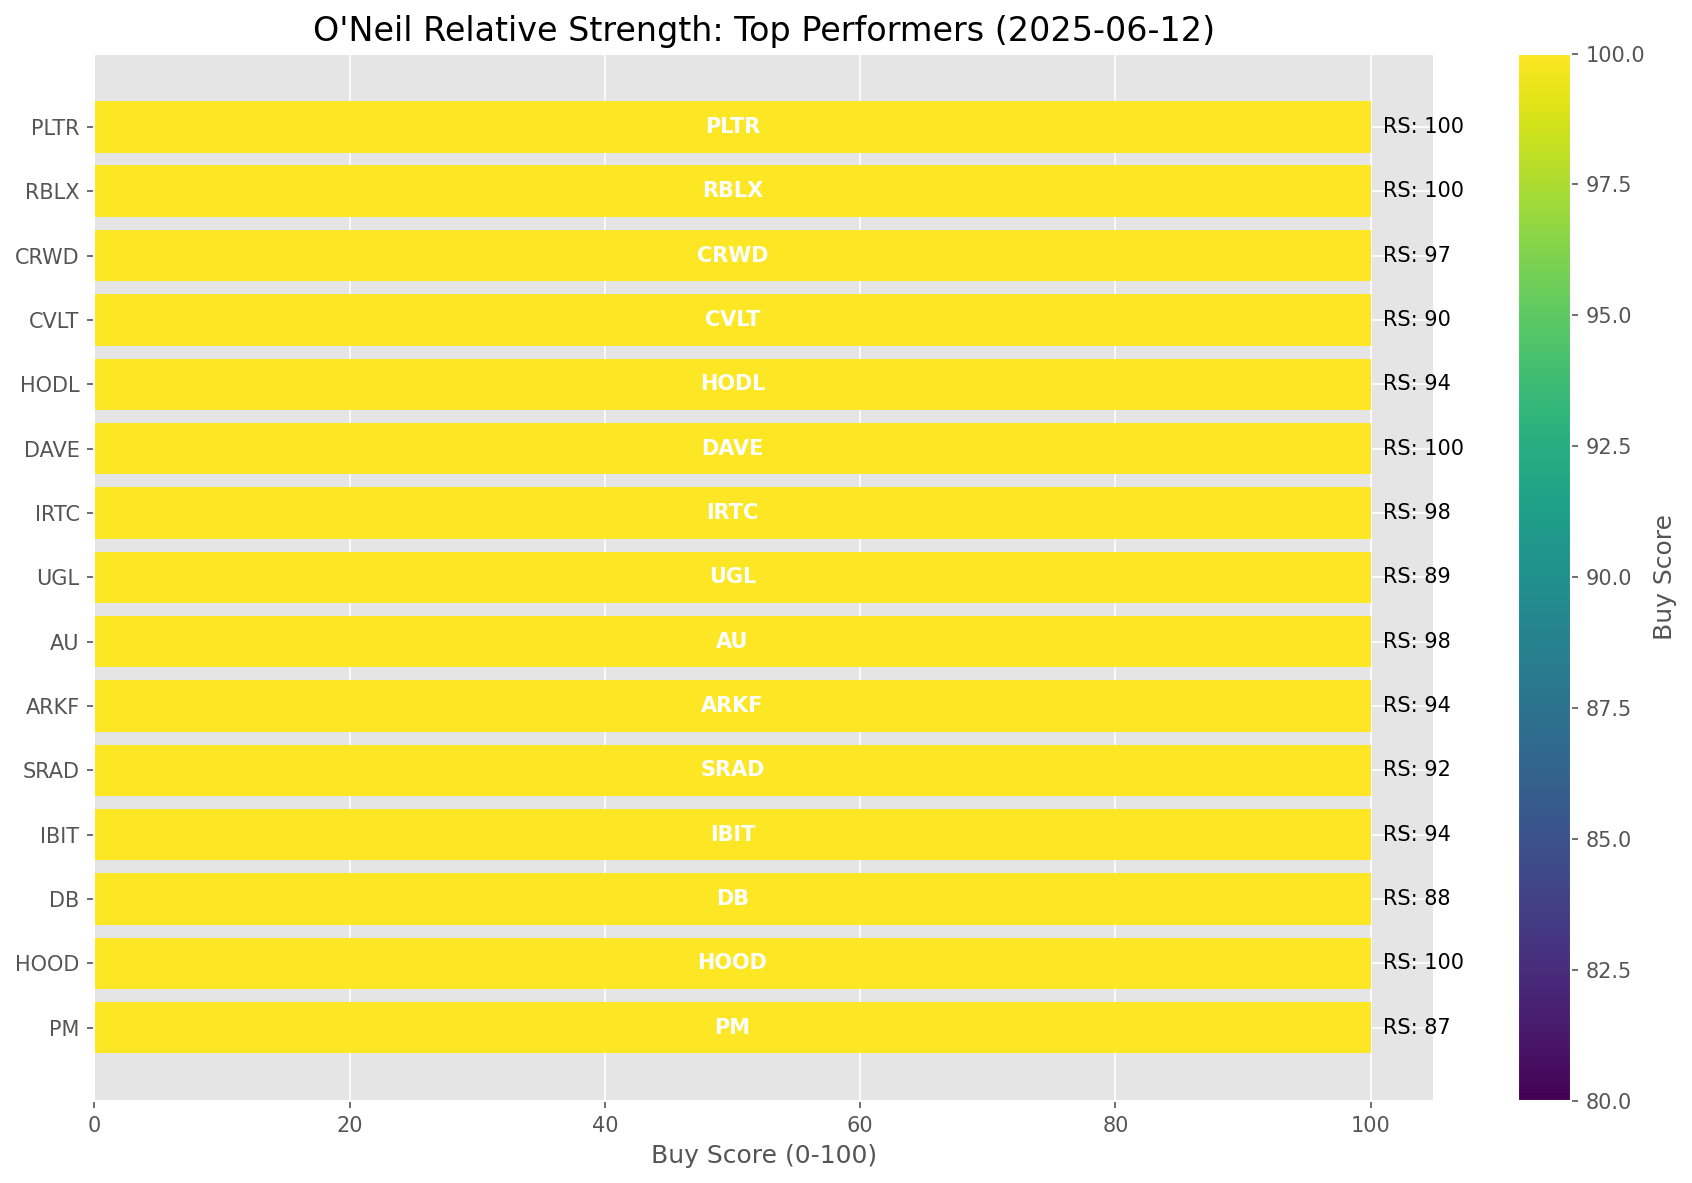
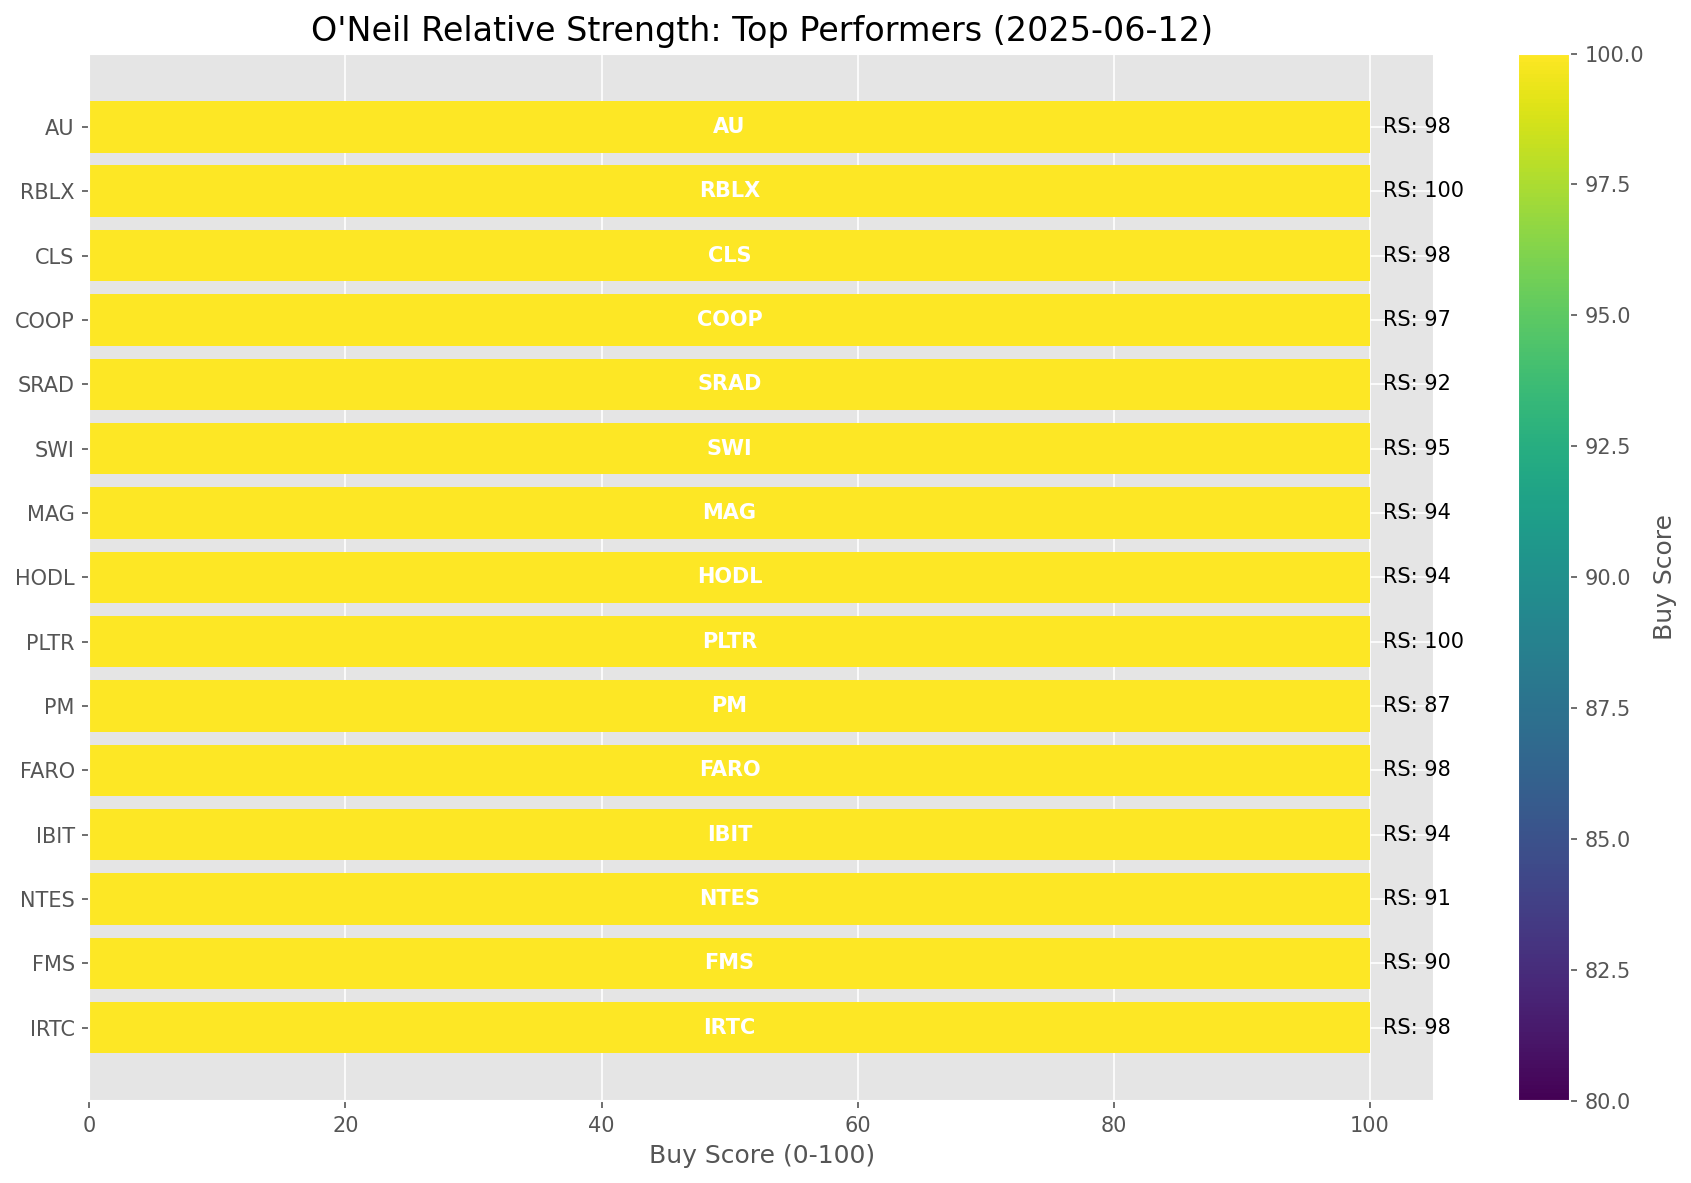
Add market report for 2025-06-12

diff --git a/oneil_relative_strength_report_2025-06-12.md b/oneil_relative_strength_report_2025-06-12.md
@@ -58,9 +58,9 @@ Based on William O'Neil's Relative Strength Methodology
 | [PAVE](https://www.tradingview.com/chart/?symbol=PAVE) | 88.5 | 77.0 | 14.12% | 10d ✓, 50d ✓, 200d ✓ | ↗ | Infrastructure |
 | [GLD](https://www.tradingview.com/chart/?symbol=GLD) | 87.5 | 75.0 | 13.47% | 10d ✓, 50d ✓, 200d ✓ | ↗ | Gold |
 | [XLC](https://www.tradingview.com/chart/?symbol=XLC) | 82.5 | 65.0 | 9.27% | 10d ✓, 50d ✓, 200d ✓ | ↗ | Communications |
-| [XLF](https://www.tradingview.com/chart/?symbol=XLF) | 80.0 | 60.0 | 7.55% | 10d ✓, 50d ✓, 200d ✓ | ↗ | Financial |
-| [IYZ](https://www.tradingview.com/chart/?symbol=IYZ) | 80.0 | 60.0 | 7.55% | 10d ✓, 50d ✓, 200d ✓ | ↗ | Telecommunications |
 | [SLV](https://www.tradingview.com/chart/?symbol=SLV) | 80.0 | 60.0 | 7.55% | 10d ✓, 50d ✓, 200d ✓ | ↗ | Silver |
+| [IYZ](https://www.tradingview.com/chart/?symbol=IYZ) | 80.0 | 60.0 | 7.55% | 10d ✓, 50d ✓, 200d ✓ | ↗ | Telecommunications |
+| [XLF](https://www.tradingview.com/chart/?symbol=XLF) | 80.0 | 60.0 | 7.55% | 10d ✓, 50d ✓, 200d ✓ | ↗ | Financial |
 | [URA](https://www.tradingview.com/chart/?symbol=URA) | 79.0 | 98.0 | 53.17% | 10d ✓, 50d ✓, 200d ✓ | ↘ | Uranium |
 | [XLU](https://www.tradingview.com/chart/?symbol=XLU) | 77.5 | 55.0 | 5.86% | 10d ✓, 50d ✓, 200d ✓ | ↗ | Utilities |
 | [XLI](https://www.tradingview.com/chart/?symbol=XLI) | 76.1 | 72.0 | 11.71% | 10d ✗, 50d ✓, 200d ✓ | ↗ | Industrial |
@@ -110,54 +110,54 @@ The following 64 stocks show exceptional relative strength:
 
 | RS Rating | Buy Score | Current Price | Chart | Name | Ticker |
 |-----------|-----------|---------------|-------|------|--------|
-| 100 | 100 | $73.84 | [Chart](https://www.tradingview.com/chart/?symbol=HOOD) | Robinhood Markets, Inc. Class A Common Stock | HOOD |
-| 100 | 100 | $238.25 | [Chart](https://www.tradingview.com/chart/?symbol=DAVE) | Dave Inc. Class A Common Stock | DAVE |
-| 100 | 100 | $95.11 | [Chart](https://www.tradingview.com/chart/?symbol=RBLX) | Roblox Corporation | RBLX |
 | 100 | 100 | $135.19 | [Chart](https://www.tradingview.com/chart/?symbol=PLTR) | Palantir Technologies Inc. Class A Common Stock | PLTR |
+| 100 | 100 | $95.11 | [Chart](https://www.tradingview.com/chart/?symbol=RBLX) | Roblox Corporation | RBLX |
 | 100 | 100 | $158.44 | [Chart](https://www.tradingview.com/chart/?symbol=LEU) | Centrus Energy Corp. | LEU |
+| 100 | 100 | $73.84 | [Chart](https://www.tradingview.com/chart/?symbol=HOOD) | Robinhood Markets, Inc. Class A Common Stock | HOOD |
+| 100 | 100 | $222.12 | [Chart](https://www.tradingview.com/chart/?symbol=AGX) | Argan, Inc | AGX |
 | 100 | 100 | $140.10 | [Chart](https://www.tradingview.com/chart/?symbol=SEZL) | Sezzle Inc. Common Stock | SEZL |
 | 100 | 100 | $57.15 | [Chart](https://www.tradingview.com/chart/?symbol=HIMS) | Hims & Hers Health, Inc. | HIMS |
-| 100 | 100 | $222.12 | [Chart](https://www.tradingview.com/chart/?symbol=AGX) | Argan, Inc | AGX |
+| 100 | 100 | $238.25 | [Chart](https://www.tradingview.com/chart/?symbol=DAVE) | Dave Inc. Class A Common Stock | DAVE |
 | 99 | 100 | $487.67 | [Chart](https://www.tradingview.com/chart/?symbol=GEV) | GE Vernova Inc. | GEV |
-| 98 | 100 | $48.82 | [Chart](https://www.tradingview.com/chart/?symbol=AU) | AngloGold Ashanti plc | AU |
 | 98 | 100 | $145.48 | [Chart](https://www.tradingview.com/chart/?symbol=IRTC) | iRhythm Technologies, Inc | IRTC |
 | 98 | 100 | $42.56 | [Chart](https://www.tradingview.com/chart/?symbol=FARO) | Faro Technologies Inc | FARO |
 | 98 | 100 | $130.73 | [Chart](https://www.tradingview.com/chart/?symbol=CLS) | Celestica, Inc. | CLS |
-| 97 | 100 | $481.73 | [Chart](https://www.tradingview.com/chart/?symbol=CRWD) | CrowdStrike Holdings, Inc. Class A Common Stock | CRWD |
+| 98 | 100 | $48.82 | [Chart](https://www.tradingview.com/chart/?symbol=AU) | AngloGold Ashanti plc | AU |
 | 97 | 100 | $146.52 | [Chart](https://www.tradingview.com/chart/?symbol=COOP) | Mr. Cooper Group Inc. Common Stock | COOP |
+| 97 | 100 | $481.73 | [Chart](https://www.tradingview.com/chart/?symbol=CRWD) | CrowdStrike Holdings, Inc. Class A Common Stock | CRWD |
 | 97 | 100 | $20.42 | [Chart](https://www.tradingview.com/chart/?symbol=MIR) | Mirion Technologies, Inc. | MIR |
 | 96 | 100 | $41.24 | [Chart](https://www.tradingview.com/chart/?symbol=KTOS) | Kratos Defense & Security Solutions, Inc. | KTOS |
+| 96 | 100 | $274.99 | [Chart](https://www.tradingview.com/chart/?symbol=TLN) | Talen Energy Corporation Common Stock | TLN |
 | 96 | 100 | $250.64 | [Chart](https://www.tradingview.com/chart/?symbol=GWRE) | GUIDEWIRE SOFTWARE, INC. | GWRE |
 | 96 | 100 | $37.41 | [Chart](https://www.tradingview.com/chart/?symbol=AS) | Amer Sports, Inc. | AS |
-| 96 | 100 | $274.99 | [Chart](https://www.tradingview.com/chart/?symbol=TLN) | Talen Energy Corporation Common Stock | TLN |
 | 95 | 100 | $26.41 | [Chart](https://www.tradingview.com/chart/?symbol=OR) | OR Royalties Inc. | OR |
 | 94 | 100 | $60.70 | [Chart](https://www.tradingview.com/chart/?symbol=IBIT) | iShares Bitcoin Trust ETF | IBIT |
-| 94 | 100 | $44.19 | [Chart](https://www.tradingview.com/chart/?symbol=ARKF) | ARK Fintech Innovation ETF | ARKF |
 | 94 | 100 | $30.23 | [Chart](https://www.tradingview.com/chart/?symbol=HODL) | VanEck Bitcoin ETF | HODL |
 | 94 | 100 | $21.42 | [Chart](https://www.tradingview.com/chart/?symbol=MAG) | MAG Silver Corp. | MAG |
-| 93 | 100 | $506.99 | [Chart](https://www.tradingview.com/chart/?symbol=CASY) | Casey's General Stores Inc | CASY |
-| 93 | 100 | $176.29 | [Chart](https://www.tradingview.com/chart/?symbol=EAT) | Brinker International, Inc. | EAT |
-| 93 | 100 | $58.79 | [Chart](https://www.tradingview.com/chart/?symbol=CAKE) | Cheesecake Factory (The) | CAKE |
+| 94 | 100 | $44.19 | [Chart](https://www.tradingview.com/chart/?symbol=ARKF) | ARK Fintech Innovation ETF | ARKF |
 | 93 | 100 | $24.49 | [Chart](https://www.tradingview.com/chart/?symbol=TFPM) | Triple Flag Precious Metals Corp. | TFPM |
+| 93 | 100 | $58.79 | [Chart](https://www.tradingview.com/chart/?symbol=CAKE) | Cheesecake Factory (The) | CAKE |
+| 93 | 100 | $176.29 | [Chart](https://www.tradingview.com/chart/?symbol=EAT) | Brinker International, Inc. | EAT |
+| 93 | 100 | $506.99 | [Chart](https://www.tradingview.com/chart/?symbol=CASY) | Casey's General Stores Inc | CASY |
 | 92 | 100 | $25.33 | [Chart](https://www.tradingview.com/chart/?symbol=SRAD) | Sportradar Group AG Class A Ordinary Shares | SRAD |
 | 92 | 100 | $70.61 | [Chart](https://www.tradingview.com/chart/?symbol=GDXJ) | VanEck Junior Gold Miners ETF | GDXJ |
-| 91 | 100 | $160.52 | [Chart](https://www.tradingview.com/chart/?symbol=CAH) | Cardinal Health, Inc. | CAH |
 | 91 | 100 | $132.76 | [Chart](https://www.tradingview.com/chart/?symbol=NTES) | NetEase, inc. | NTES |
-| 90 | 100 | $186.09 | [Chart](https://www.tradingview.com/chart/?symbol=CVLT) | Commault Systems, Inc. | CVLT |
+| 91 | 100 | $160.52 | [Chart](https://www.tradingview.com/chart/?symbol=CAH) | Cardinal Health, Inc. | CAH |
 | 90 | 100 | $28.94 | [Chart](https://www.tradingview.com/chart/?symbol=FMS) | Fresenius Medical Care AG | FMS |
+| 90 | 100 | $186.09 | [Chart](https://www.tradingview.com/chart/?symbol=CVLT) | Commault Systems, Inc. | CVLT |
 | 90 | 100 | $58.13 | [Chart](https://www.tradingview.com/chart/?symbol=SHLD) | Global X Defense Tech ETF | SHLD |
 | 89 | 100 | $146.10 | [Chart](https://www.tradingview.com/chart/?symbol=UGL) | ProShares Ultra Gold | UGL |
+| 89 | 100 | $72.52 | [Chart](https://www.tradingview.com/chart/?symbol=CTVA) | Corteva, Inc. Common Stock | CTVA |
 | 89 | 100 | $90.41 | [Chart](https://www.tradingview.com/chart/?symbol=WPM) | Wheaton Precious Metals Corp. Common Stock | WPM |
 | 89 | 100 | $35.70 | [Chart](https://www.tradingview.com/chart/?symbol=AHR) | American Healthcare REIT, Inc. | AHR |
-| 89 | 100 | $72.52 | [Chart](https://www.tradingview.com/chart/?symbol=CTVA) | Corteva, Inc. Common Stock | CTVA |
 | 88 | 100 | $28.22 | [Chart](https://www.tradingview.com/chart/?symbol=DB) | Deutsche Bank Aktiengesellschaft | DB |
 | 87 | 100 | $184.10 | [Chart](https://www.tradingview.com/chart/?symbol=PM) | Philip Morris International Inc. | PM |
 | 89 | 99 | $53.53 | [Chart](https://www.tradingview.com/chart/?symbol=GDX) | VanEck Gold Miners ETF | GDX |
 | 86 | 99 | $281.81 | [Chart](https://www.tradingview.com/chart/?symbol=VRSN) | VeriSign Inc | VRSN |
 | 89 | 98 | $48.48 | [Chart](https://www.tradingview.com/chart/?symbol=SIL) | Global X Silver Miners ETF (NEW) | SIL |
 | 86 | 98 | $77.44 | [Chart](https://www.tradingview.com/chart/?symbol=EBAY) | eBay Inc | EBAY |
-| 85 | 97 | $29.20 | [Chart](https://www.tradingview.com/chart/?symbol=MP) | MP Materials Corp. | MP |
 | 85 | 97 | $28.60 | [Chart](https://www.tradingview.com/chart/?symbol=IMAX) | Imax Corp | IMAX |
+| 85 | 97 | $29.20 | [Chart](https://www.tradingview.com/chart/?symbol=MP) | MP Materials Corp. | MP |
 | 84 | 97 | $122.09 | [Chart](https://www.tradingview.com/chart/?symbol=AEM) | Agnico Eagle Mines Ltd. | AEM |
 | 87 | 96 | $25.24 | [Chart](https://www.tradingview.com/chart/?symbol=GFI) | Gold Fields Ltd ADR | GFI |
 | 87 | 96 | $28.98 | [Chart](https://www.tradingview.com/chart/?symbol=TGS) | Transportadora de Gas del Sur S.A. ADS | TGS |
@@ -180,61 +180,61 @@ The following 64 stocks show exceptional relative strength:
 
 ## **Sell Recommendations**
 
-The following 116 stocks show deteriorating relative strength:
+The following 115 stocks show deteriorating relative strength:
 
 | RS Rating | Sell Score | Current Price | Chart | Name | Ticker |
 |-----------|------------|---------------|-------|------|--------|
-| 1 | 100 | $30.76 | [Chart](https://www.tradingview.com/chart/?symbol=TECS) | Direxion Daily Technology Bear 3x Shares | TECS |
-| 1 | 100 | $12.69 | [Chart](https://www.tradingview.com/chart/?symbol=IART) | Integra LifeSciences Holdings | IART |
+| 1 | 100 | $11.96 | [Chart](https://www.tradingview.com/chart/?symbol=NRIX) | Nurix Therapeutics, Inc. Common stock | NRIX |
 | 1 | 100 | $10.35 | [Chart](https://www.tradingview.com/chart/?symbol=WNC) | Wabash National Corp. | WNC |
+| 1 | 100 | $30.76 | [Chart](https://www.tradingview.com/chart/?symbol=TECS) | Direxion Daily Technology Bear 3x Shares | TECS |
 | 1 | 100 | $14.27 | [Chart](https://www.tradingview.com/chart/?symbol=RXST) | RxSight, Inc. Common Stock | RXST |
 | 1 | 100 | $16.50 | [Chart](https://www.tradingview.com/chart/?symbol=NVDS) | Investment Managers Series Trust II Tradr 1.5X Short NVDA Daily ETF | NVDS |
-| 1 | 100 | $11.96 | [Chart](https://www.tradingview.com/chart/?symbol=NRIX) | Nurix Therapeutics, Inc. Common stock | NRIX |
-| 2 | 100 | $27.32 | [Chart](https://www.tradingview.com/chart/?symbol=QID) | ProShares UltraShort QQQ | QID |
+| 1 | 100 | $12.69 | [Chart](https://www.tradingview.com/chart/?symbol=IART) | Integra LifeSciences Holdings | IART |
 | 2 | 100 | $10.17 | [Chart](https://www.tradingview.com/chart/?symbol=SONO) | Sonos, Inc. Common Stock | SONO |
+| 2 | 100 | $27.32 | [Chart](https://www.tradingview.com/chart/?symbol=QID) | ProShares UltraShort QQQ | QID |
 | 2 | 100 | $48.00 | [Chart](https://www.tradingview.com/chart/?symbol=CCOI) | Cogent Communications Holdings, Inc. | CCOI |
 | 2 | 100 | $10.59 | [Chart](https://www.tradingview.com/chart/?symbol=PACS) | PACS Group, Inc. | PACS |
 | 3 | 100 | $14.05 | [Chart](https://www.tradingview.com/chart/?symbol=INMD) | InMode Ltd. Ordinary Shares | INMD |
-| 3 | 100 | $100.00 | [Chart](https://www.tradingview.com/chart/?symbol=ONTO) | Onto Innovation Inc. | ONTO |
 | 3 | 100 | $10.52 | [Chart](https://www.tradingview.com/chart/?symbol=MBC) | MasterBrand, Inc. | MBC |
-| 3 | 100 | $33.20 | [Chart](https://www.tradingview.com/chart/?symbol=CYTK) | Cytokinetics Inc. | CYTK |
-| 3 | 100 | $10.67 | [Chart](https://www.tradingview.com/chart/?symbol=SNDX) | Syndax Pharmaceuticals, Inc. | SNDX |
+| 3 | 100 | $100.00 | [Chart](https://www.tradingview.com/chart/?symbol=ONTO) | Onto Innovation Inc. | ONTO |
 | 3 | 100 | $25.62 | [Chart](https://www.tradingview.com/chart/?symbol=CRTO) | Criteo S.A. | CRTO |
-| 4 | 100 | $11.33 | [Chart](https://www.tradingview.com/chart/?symbol=HPK) | HighPeak Energy, Inc. Common Stock | HPK |
-| 4 | 100 | $140.33 | [Chart](https://www.tradingview.com/chart/?symbol=KRYS) | Krystal Biotech, Inc. Common Stock | KRYS |
-| 4 | 100 | $12.57 | [Chart](https://www.tradingview.com/chart/?symbol=ERII) | Energy Recovery, Inc. | ERII |
-| 4 | 100 | $21.26 | [Chart](https://www.tradingview.com/chart/?symbol=AMRK) | A-Mark Precious Metals, Inc. | AMRK |
-| 4 | 100 | $45.08 | [Chart](https://www.tradingview.com/chart/?symbol=SDOW) | ProShares UltraPro Short Dow 30 | SDOW |
+| 3 | 100 | $10.67 | [Chart](https://www.tradingview.com/chart/?symbol=SNDX) | Syndax Pharmaceuticals, Inc. | SNDX |
+| 3 | 100 | $33.20 | [Chart](https://www.tradingview.com/chart/?symbol=CYTK) | Cytokinetics Inc. | CYTK |
 | 4 | 100 | $52.92 | [Chart](https://www.tradingview.com/chart/?symbol=ASGN) | ASGN Incorporated | ASGN |
+| 4 | 100 | $45.08 | [Chart](https://www.tradingview.com/chart/?symbol=SDOW) | ProShares UltraPro Short Dow 30 | SDOW |
+| 4 | 100 | $21.26 | [Chart](https://www.tradingview.com/chart/?symbol=AMRK) | A-Mark Precious Metals, Inc. | AMRK |
+| 4 | 100 | $12.57 | [Chart](https://www.tradingview.com/chart/?symbol=ERII) | Energy Recovery, Inc. | ERII |
+| 4 | 100 | $140.33 | [Chart](https://www.tradingview.com/chart/?symbol=KRYS) | Krystal Biotech, Inc. Common Stock | KRYS |
+| 4 | 100 | $11.33 | [Chart](https://www.tradingview.com/chart/?symbol=HPK) | HighPeak Energy, Inc. Common Stock | HPK |
 | 4 | 100 | $21.76 | [Chart](https://www.tradingview.com/chart/?symbol=THS) | Treehouse Foods, Inc. | THS |
 | 5 | 100 | $32.42 | [Chart](https://www.tradingview.com/chart/?symbol=MBIN) | Merchants Bancorp Common Stock | MBIN |
-| 5 | 100 | $25.56 | [Chart](https://www.tradingview.com/chart/?symbol=JANX) | Janux Therapeutics, Inc. Common Stock | JANX |
-| 5 | 100 | $11.19 | [Chart](https://www.tradingview.com/chart/?symbol=PUBM) | PubMatic, Inc. Class A Common Stock | PUBM |
-| 5 | 100 | $45.08 | [Chart](https://www.tradingview.com/chart/?symbol=TWM) | ProShares UltraShort Russell2000 | TWM |
 | 5 | 100 | $54.71 | [Chart](https://www.tradingview.com/chart/?symbol=CCS) | CENTURY COMMUNITIES, INC. | CCS |
+| 5 | 100 | $11.19 | [Chart](https://www.tradingview.com/chart/?symbol=PUBM) | PubMatic, Inc. Class A Common Stock | PUBM |
+| 5 | 100 | $25.56 | [Chart](https://www.tradingview.com/chart/?symbol=JANX) | Janux Therapeutics, Inc. Common Stock | JANX |
+| 5 | 100 | $45.08 | [Chart](https://www.tradingview.com/chart/?symbol=TWM) | ProShares UltraShort Russell2000 | TWM |
 | 5 | 100 | $45.44 | [Chart](https://www.tradingview.com/chart/?symbol=LINE) | Lineage, Inc. Common Stock | LINE |
 | 6 | 100 | $17.25 | [Chart](https://www.tradingview.com/chart/?symbol=CODI) | Compass Diversified | CODI |
-| 6 | 100 | $52.71 | [Chart](https://www.tradingview.com/chart/?symbol=SLVM) | Sylvamo Corporation | SLVM |
 | 6 | 100 | $110.30 | [Chart](https://www.tradingview.com/chart/?symbol=AMR) | Alpha Metallurgical Resources, Inc. | AMR |
-| 7 | 100 | $39.72 | [Chart](https://www.tradingview.com/chart/?symbol=APOG) | Apogee Enterprises Inc | APOG |
+| 6 | 100 | $52.71 | [Chart](https://www.tradingview.com/chart/?symbol=SLVM) | Sylvamo Corporation | SLVM |
 | 7 | 100 | $10.50 | [Chart](https://www.tradingview.com/chart/?symbol=SCS) | Steelcase, Inc. | SCS |
+| 7 | 100 | $39.72 | [Chart](https://www.tradingview.com/chart/?symbol=APOG) | Apogee Enterprises Inc | APOG |
 | 8 | 100 | $103.43 | [Chart](https://www.tradingview.com/chart/?symbol=PDD) | PDD Holdings Inc. American Depositary Shares | PDD |
 | 8 | 100 | $38.42 | [Chart](https://www.tradingview.com/chart/?symbol=TMF) | Direxion Daily 20+ Year Treasury Bull 3X Shares (based on the NYSE 20 Year Plus Treasury Bond Index; symbol AXTWEN) | TMF |
+| 8 | 100 | $93.26 | [Chart](https://www.tradingview.com/chart/?symbol=ZBH) | Zimmer Biomet Holdings, Inc. | ZBH |
 | 8 | 100 | $12.42 | [Chart](https://www.tradingview.com/chart/?symbol=WSR) | Whitestone REIT | WSR |
 | 8 | 100 | $10.02 | [Chart](https://www.tradingview.com/chart/?symbol=LBTYA) | Liberty Global Ltd. Class A Common Shares | LBTYA |
-| 8 | 100 | $93.26 | [Chart](https://www.tradingview.com/chart/?symbol=ZBH) | Zimmer Biomet Holdings, Inc. | ZBH |
-| 9 | 100 | $21.72 | [Chart](https://www.tradingview.com/chart/?symbol=KIDS) | OrthoPediatrics Corp. Common Stock | KIDS |
 | 9 | 100 | $20.79 | [Chart](https://www.tradingview.com/chart/?symbol=SPT) | Sprout Social, Inc Class A Common Stock | SPT |
+| 9 | 100 | $21.72 | [Chart](https://www.tradingview.com/chart/?symbol=KIDS) | OrthoPediatrics Corp. Common Stock | KIDS |
 | 10 | 100 | $23.73 | [Chart](https://www.tradingview.com/chart/?symbol=RPD) | Rapid7, Inc. Common Stock | RPD |
-| 10 | 100 | $122.10 | [Chart](https://www.tradingview.com/chart/?symbol=TFX) | Teleflex Incorporated | TFX |
 | 10 | 100 | $11.29 | [Chart](https://www.tradingview.com/chart/?symbol=OEC) | Orion S.A. | OEC |
-| 11 | 100 | $10.14 | [Chart](https://www.tradingview.com/chart/?symbol=LBTYK) | Liberty Global Ltd. Class C Common Shares | LBTYK |
+| 10 | 100 | $122.10 | [Chart](https://www.tradingview.com/chart/?symbol=TFX) | Teleflex Incorporated | TFX |
 | 11 | 100 | $31.76 | [Chart](https://www.tradingview.com/chart/?symbol=FUN) | Six Flags Entertainment Corporation | FUN |
+| 11 | 100 | $10.14 | [Chart](https://www.tradingview.com/chart/?symbol=LBTYK) | Liberty Global Ltd. Class C Common Shares | LBTYK |
 | 13 | 100 | $54.74 | [Chart](https://www.tradingview.com/chart/?symbol=GIS) | General Mills, Inc. | GIS |
 | 13 | 100 | $88.04 | [Chart](https://www.tradingview.com/chart/?symbol=BCC) | Boise Cascade Company | BCC |
 | 2 | 99 | $12.55 | [Chart](https://www.tradingview.com/chart/?symbol=TZA) | Direxion Daily Small Cap Bear 3x Shares | TZA |
-| 7 | 99 | $33.63 | [Chart](https://www.tradingview.com/chart/?symbol=TWST) | Twist Bioscience Corporation Common Stock | TWST |
 | 7 | 99 | $17.65 | [Chart](https://www.tradingview.com/chart/?symbol=AMTB) | Amerant Bancorp Inc. | AMTB |
+| 7 | 99 | $33.63 | [Chart](https://www.tradingview.com/chart/?symbol=TWST) | Twist Bioscience Corporation Common Stock | TWST |
 | 8 | 99 | $10.95 | [Chart](https://www.tradingview.com/chart/?symbol=NEWT) | NewtekOne, Inc. Common Stock | NEWT |
 | 9 | 99 | $23.86 | [Chart](https://www.tradingview.com/chart/?symbol=RYN) | Rayonier Inc. | RYN |
 | 13 | 99 | $15.20 | [Chart](https://www.tradingview.com/chart/?symbol=SEM) | SELECT MEDICAL HOLDINGS CORP | SEM |
@@ -268,8 +268,8 @@ The following 116 stocks show deteriorating relative strength:
 | 11 | 91 | $15.51 | [Chart](https://www.tradingview.com/chart/?symbol=QNST) | QuinStreet, Inc. | QNST |
 | 14 | 91 | $64.29 | [Chart](https://www.tradingview.com/chart/?symbol=STC) | Stewart Information Services Corporation | STC |
 | 17 | 91 | $17.70 | [Chart](https://www.tradingview.com/chart/?symbol=JPMpM) | JPMorgan Chase & Co. Depositary Shares, each representing a 1/400th interest in a share of 4.20% Non-Cumulative Preferred Stock, Series MM | JPMpM |
-| 15 | 90 | $29.94 | [Chart](https://www.tradingview.com/chart/?symbol=OMCL) | Omnicell Inc | OMCL |
 | 15 | 90 | $12.73 | [Chart](https://www.tradingview.com/chart/?symbol=ZETA) | Zeta Global Holdings Corp. | ZETA |
+| 15 | 90 | $29.94 | [Chart](https://www.tradingview.com/chart/?symbol=OMCL) | Omnicell Inc | OMCL |
 | 21 | 90 | $15.86 | [Chart](https://www.tradingview.com/chart/?symbol=BBN) | BlackRock Taxable Municipal Bond Trust | BBN |
 | 13 | 89 | $17.78 | [Chart](https://www.tradingview.com/chart/?symbol=ZTO) | ZTO Express (Cayman) Inc. American Depositary Shares, each representing one Class A ordinary share | ZTO |
 | 15 | 89 | $10.37 | [Chart](https://www.tradingview.com/chart/?symbol=NMZ) | Nuveen Municipal High Income Opportunity Fund | NMZ |
@@ -279,12 +279,11 @@ The following 116 stocks show deteriorating relative strength:
 | 18 | 88 | $74.15 | [Chart](https://www.tradingview.com/chart/?symbol=AAON) | Aaon Inc | AAON |
 | 21 | 88 | $17.05 | [Chart](https://www.tradingview.com/chart/?symbol=UMH) | UMH Properties, Inc. | UMH |
 | 14 | 87 | $10.62 | [Chart](https://www.tradingview.com/chart/?symbol=LOCO) | El Pollo Loco Holdings, Inc. | LOCO |
-| 17 | 87 | $54.97 | [Chart](https://www.tradingview.com/chart/?symbol=CNMD) | CONMED Corporation | CNMD |
 | 21 | 87 | $87.17 | [Chart](https://www.tradingview.com/chart/?symbol=TLT) | iShares 20+ Year Treasury Bond ETF | TLT |
 | 27 | 87 | $25.51 | [Chart](https://www.tradingview.com/chart/?symbol=WS) | Worthington Steel, Inc. | WS |
 | 18 | 86 | $39.04 | [Chart](https://www.tradingview.com/chart/?symbol=LKQ) | LKQ Corporation | LKQ |
-| 22 | 86 | $61.29 | [Chart](https://www.tradingview.com/chart/?symbol=BLKB) | Blackbaud, Inc. | BLKB |
 | 22 | 86 | $55.46 | [Chart](https://www.tradingview.com/chart/?symbol=VGLT) | Vanguard Long-Term Treasury ETF | VGLT |
+| 22 | 86 | $61.29 | [Chart](https://www.tradingview.com/chart/?symbol=BLKB) | Blackbaud, Inc. | BLKB |
 | 17 | 84 | $293.48 | [Chart](https://www.tradingview.com/chart/?symbol=MOH) | Molina Healthcare, Inc. | MOH |
 | 20 | 84 | $133.89 | [Chart](https://www.tradingview.com/chart/?symbol=KMB) | Kimberly-Clark Corp. | KMB |
 | 23 | 84 | $69.75 | [Chart](https://www.tradingview.com/chart/?symbol=TTC) | Toro Company (The) | TTC |
